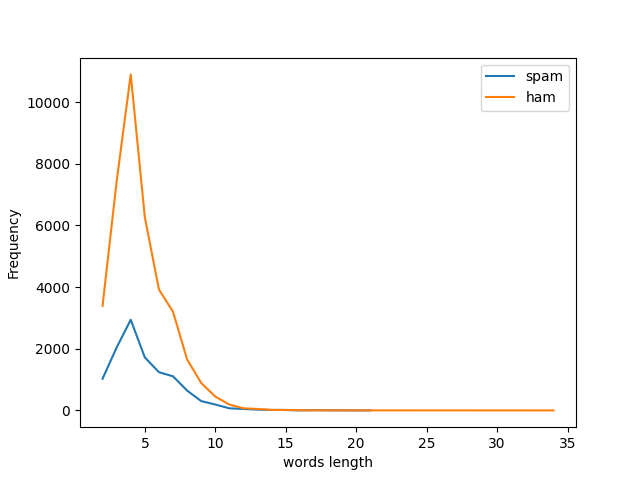
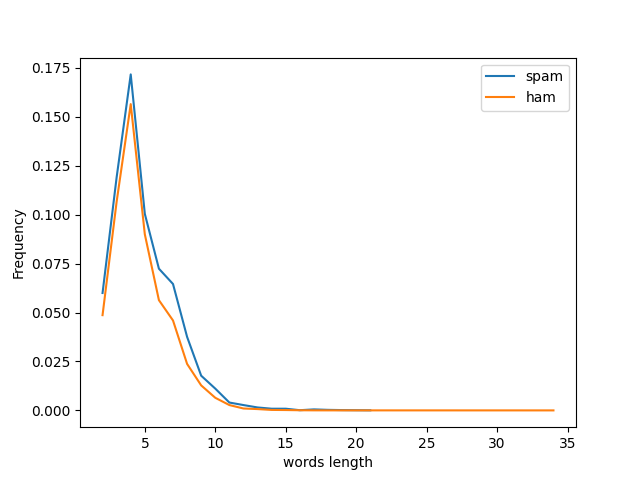
add normalization

diff --git a/lab1.py b/lab1.py
@@ -10,7 +10,11 @@ OUTPUT_FOLDER = 'output1/'
 
 stop_words_en = stop_words.get_stop_words('en')
 stemmer = Stemmer.Stemmer('english')
+global number_of_words_spam
+global number_of_words_ham
 
+number_of_words_spam = 0
+number_of_words_ham = 0
 
 def build_plot(content, file_name):
     i = 0
@@ -37,6 +41,7 @@ def save_to_file(file_name, content):
 
 
 def add_to_dict(dict_element, words_to_add, word_length):
+    global number_of_words_spam
     for word in words_to_add:
         word = word.lower()
         if word in stop_words_en or len(word) < 2:
@@ -58,15 +63,19 @@ def add_to_length_dict(word, length_dict):
 
 
 def read_from_file(ham_dict, spam_dict, word_length_ham, word_length_spam, sentence_length_spam, sentence_length_ham):
+    global number_of_words_spam
+    global number_of_words_ham
     with open("sms-spam-corpus.csv") as csv_file:
         reader = csv.DictReader(csv_file)
         for row in reader:
             sentence = stemmer.stemWord(row['v2'])
             words = re.findall('[a-zA-Z]+', sentence)
             if row['v1'] == 'spam':
+                number_of_words_spam += len(words)
                 add_to_length_dict(sentence, sentence_length_spam)
                 add_to_dict(spam_dict, words, word_length_spam)
             elif row['v1'] == 'ham':
+                number_of_words_ham += len(words)
                 add_to_length_dict(sentence, sentence_length_ham)
                 add_to_dict(ham_dict, words, word_length_ham)
     csv_file.close()
@@ -115,6 +124,8 @@ def clear_file(file_name):
 
 
 def main():
+    global number_of_words_spam
+    global number_of_words_ham
     clear_file(OUTPUT_FOLDER + 'sentence_length_mean.txt')
     clear_file(OUTPUT_FOLDER + 'word_length_mean.txt')
     spam_dict = dict()
@@ -125,7 +136,12 @@ def main():
     sentence_length_ham = dict()
 
     read_from_file(ham_dict, spam_dict, word_length_ham, word_length_spam, sentence_length_spam, sentence_length_ham)
-
+    for key, value in word_length_spam.items():
+        num = word_length_spam[key]
+        word_length_spam[key] = num/number_of_words_spam
+    for key, value in word_length_ham.items():
+        num = word_length_ham[key]
+        word_length_ham[key] = num/number_of_words_ham
     spam_dict = sorted(spam_dict.items(), key=operator.itemgetter(1), reverse=True)
     ham_dict = sorted(ham_dict.items(), key=operator.itemgetter(1), reverse=True)
     word_length_spam = sorted(word_length_spam.items(), key=operator.itemgetter(0), reverse=True)
